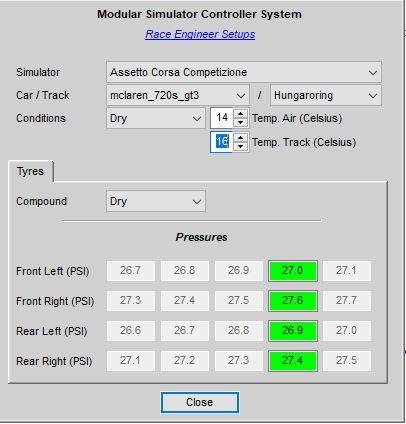
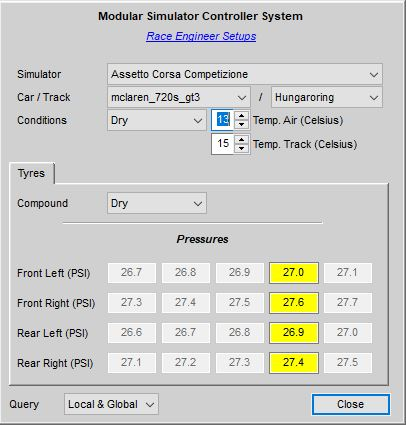
Setup Database Tool Part 3

diff --git a/Docs/Virtual Race Engineer.md b/Docs/Virtual Race Engineer.md
@@ -319,6 +319,16 @@ Note: The database is stored in the *Simulator Controller\Setup Database* folder
 
 *Very Important*: As long as we can't get the actual car setup information from the different simulation games via APIs, you **really** have to follow the guidelines from [above sections](https://github.com/SeriousOldMan/Simulator-Controller/wiki/Virtual-Race-Engineer#race-engineer-settings), so that Jona has a correct understanding of your car and tyre setup. This has been important in the past to get a correct setup for an upcoming pitstop, but it is even more important when building the setup databse, so that we do not end up with compromised data. Jona will ask you at the end of the session, if you were happy with your setup and if you want to include the setup information in the database. Please only answer "Yes" here, if you are sure, that the setup information has been transferred correctly to Jona, as described above. Please note, that you still may have had a too low or too high hot tyre pressure during your session, because your initial setup was wrong in the first place. This is no problem, since Jona will store the corrected values in the database, as long as your initial setup values are known.
 
+#### Querying the setup database
+
+Whenever you have to setup your car for a given track and specific environmental conditions you can query the setup database to get a recommendation on how to setup your initial cold pressures and which tyre compound might be best for the job. When you start the application *Race Engineer Setups.exe* from the *Binaries* folder, the following dialog will open up.
+
+![](https://github.com/SeriousOldMan/Simulator-Controller/blob/main/Docs/Images/Race%20Engineer%20Setups%201.JPG)
+
+You have to enter all the fields in the upper area to specify the simulation, car, track, current weather and so on. Then you will get a recommendation for initial cold tyre pressures in the lower area, if a matching setup is available in the setup database. Depending on the temperature settings the recommended tyre pressures will be marked in dark green for a perfect match, or light green or even yellow, if the values have been interpolated from different air and/or track temperatures.
+
+With the dropdown menu in the lower left corner you can choose, whether only your own setups (=> "Local") will be included in the database search or that also the setups of othe users of Simulator Controller might be considered (=> "Local & Global"). Since the community setups have not been consolidated yet, these two settings are identical for the moment.
+
 ### How it works
 
 Jona uses several statistical models to derive the data, on which the recommendations for the pitstop or other information is based. Therefore it will take some laps, before Jonas conclusion get more and more precise. So be careful, if you let Jona plan a pitstop after you have driven only three or four laps. You might end up with not enough fuel to reach the finish line.

diff --git a/Docs/Functions Reference.md b/Docs/Functions Reference.md
@@ -28,6 +28,9 @@ Reads a configuration map from an *.ini file. The Strings "true" and "false" wil
 #### *writeConfiguration(configFile :: String, configuration :: ConfigurationMap)*
 Stores a configuration map in the given file. All previous content of the file will be overwritten. The literal values *true* and *false* will be converted to "true" and "false", before being written to the configuration file. If *configFile* denotes an absolute path, the configuration will be saved in this file. Otherwise it will be saved relative to *kUserConfigDirectory* (see the [constants documentation](https://github.com/SeriousOldMan/Simulator-Controller/wiki/Constants-Reference#installation-paths-constantsahk) for reference).
 
+#### *getControllerConfiguration()*
+This function returns a representation of the file *Simulator Controller.config* which is located in the *Simulator Controller\Config* folder, which is located in your users *Documents* folder. The configuration object consists of information about the configured plugins and simulation applications and the available modes provided by the Simulator Controller. This file is created by the *Simulator Controller.exe* application and is updated on each startup.
+
 ***
 
 ## Tray Messages ([Functions.ahk](https://github.com/SeriousOldMan/Simulator-Controller/blob/main/Sources/Includes/Functions.ahk))
@@ -110,6 +113,9 @@ Returns a freshly allocated list containing all the elements of the supplied lis
 
 #### *map(list :: Array, function :: TypeUnion(String, FuncObj))*
 Returns a new list with the result of *function* applied to each element in *list*, while preserving the order of elements.
+
+#### *remove(list :: Array, object :: Object)*
+Returns a new list with all occurencies of *object* removed from the original list.
 
 #### *bubbleSort(ByRef array :: Array, comparator :: Function Name)*
 Sorts the given array in place, using *comparator* to define the order of the elements. This function will receive two objects and must return *true*, if the first one is considered larger or of the same order than the other. Stable sorting rules apply.

diff --git a/Docs/Releases.md b/Docs/Releases.md
@@ -2,7 +2,7 @@
 
   1. Bugfixes, as always
   2. Documentation updates, as always
-  3. Graphical interface for querying the setup database
+  3. Graphical interface for querying the setup database (see the updated [documentation](*) for more information)
 
 ## 2.8.6-release 04/30/21
 
